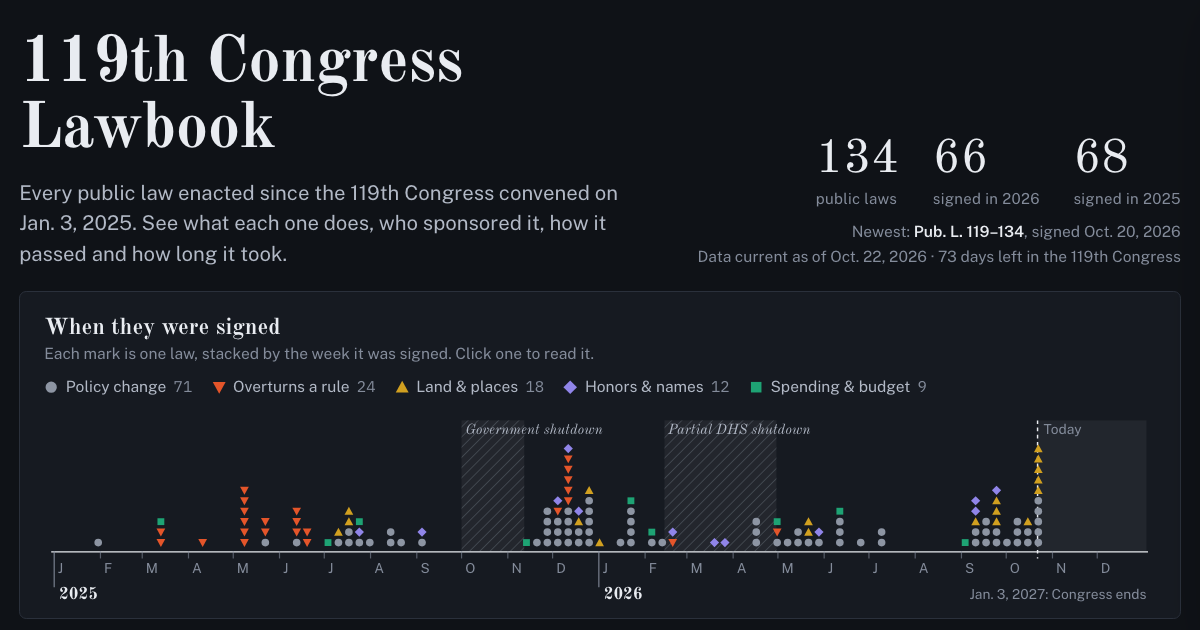
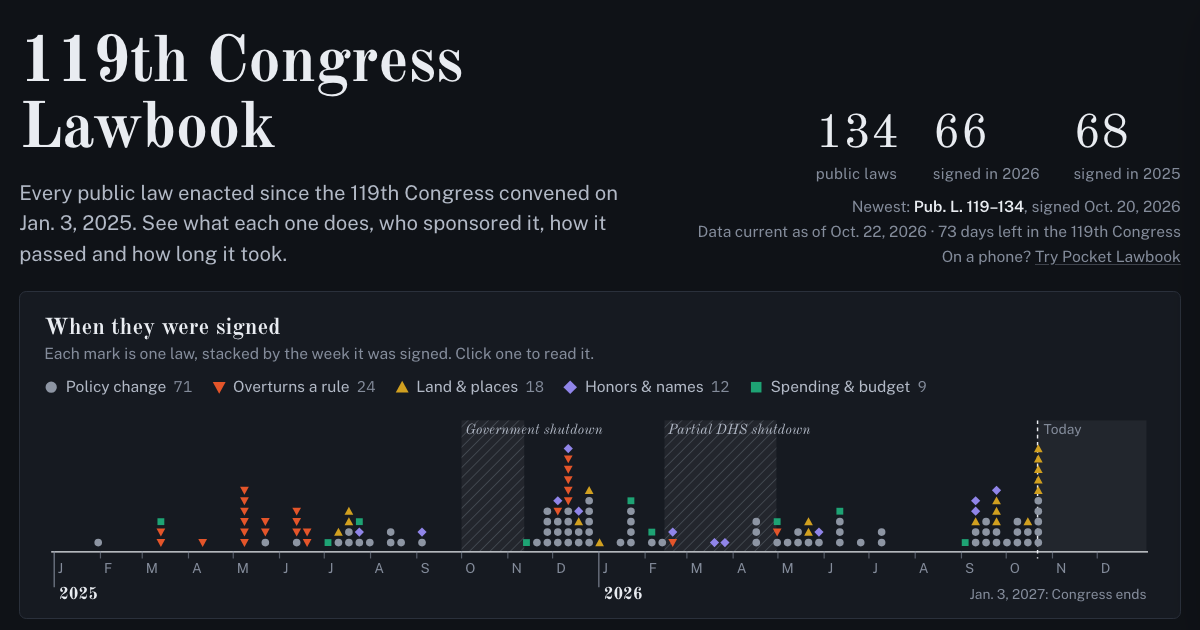
deploy: 909974d4750ef152e8c14707a1441fe9821d3a18

Changed region(s): [[0.5858, 0.181, 0.9867, 0.4222]]

diff --git a/lawbook/app.html b/lawbook/app.html
@@ -518,7 +518,7 @@ mark { background: var(--hl); color: var(--hl-ink); border-radius: 2px; padding:
       <div><span class="big">${y26}</span><span class="lab">signed in 2026</span></div>
       <div><span class="big">${y25}</span><span class="lab">signed in 2025</span></div>`;
     const newest = [...LAWS].sort(SORTS.new)[0];
-    $("#asof").innerHTML = `Newest: <b>Pub. L. ${plDash(newest.id)}</b>, signed ${fmt(newest.signed)}<br>Data current as of ${fmt(TODAY)} · ${left} days left in the 119th Congress`;
+    $("#asof").innerHTML = `Newest: <b>Pub. L. ${plDash(newest.id)}</b>, signed ${fmt(newest.signed)}<br>Data current as of ${fmt(TODAY)} · ${left > 0 ? `${left} days left in the 119th Congress` : "The 119th Congress has ended"}<br>On a phone? <a href="https://danielgolliher.github.io/pocket-lawbook/" target="_blank" rel="noopener">Try Pocket Lawbook</a>`;
     const unprinted = LAWS.filter(l => !l.stat).length;
     $("#unprinted").textContent = unprinted;
     $("#privates").innerHTML = `Congress also enacted ${PRIV.length} private laws, which apply to named individuals rather than the public: ` +
